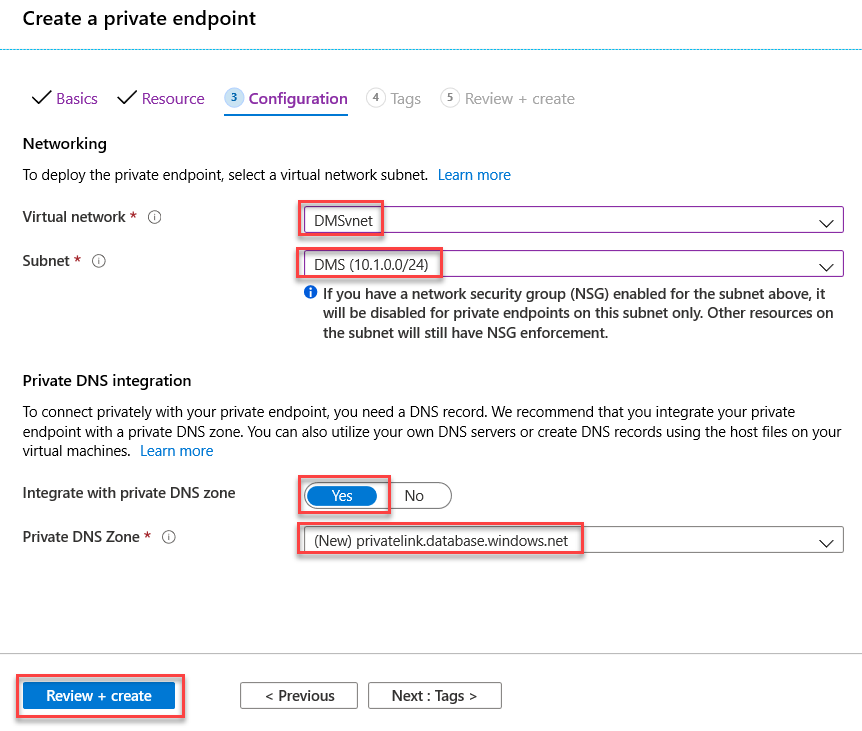
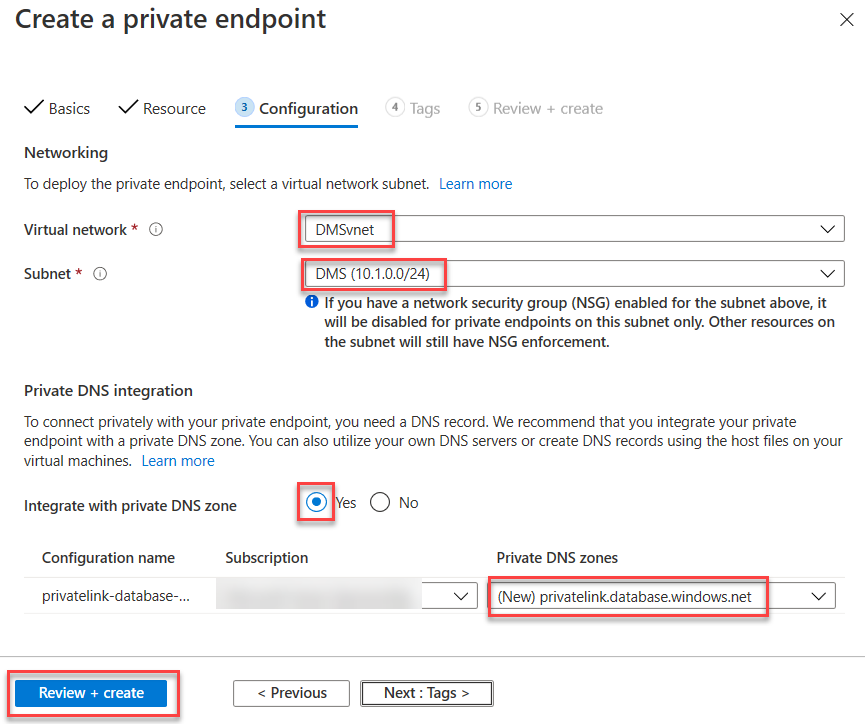
Updated LoB App Migration

diff --git a/Hands-on lab/HOL step-by step - Line-of-business application migration.md b/Hands-on lab/HOL step-by step - Line-of-business application migration.md
@@ -547,7 +547,7 @@ In this task you registered the **Microsoft.DataMigration** resource provider wi
 
 In this task you will create a new Azure SQL database to migrate the on-premises database to.
 
-1. Open the Azure portal at https://portal.azure.com and log in using your subscription credentials.
+1. Open the Azure portal at https://portal.azure.com and log in using your subscription credentials if it's not still up.
 
 2. Expand the portal's left navigation by selecting **Show portal menu** in the top left then select **+ Create a resource**, then select **Databases**, then select **SQL Database**.
 
@@ -557,7 +557,7 @@ In this task you will create a new Azure SQL database to migrate the on-premises
 
     - Subscription: **Select your subscription**.
   
-    - Resource group (create new): **SmartHotelDBRG**
+    - Resource group: (create new) **SmartHotelDBRG**
   
     - Database name: **smarthoteldb**
   
@@ -577,7 +577,7 @@ In this task you will create a new Azure SQL database to migrate the on-premises
   
     - Compute + storage: **Standard S0**
 
-    > **Note**: To select the 'Standard S0' database tier, select **Configure database**, then **Looking for basic, standard, premium?**, select **Standard** and select **Apply**.
+    > **Note**: To select the **Standard S0** database tier, select **Configure database**, then **Looking for basic, standard, premium?**, select **Standard** and select **Apply**.
 
     ![Screenshot from the Azure portal showing the Create SQL Database blade.](images/Exercise2/new-db.png)
 
@@ -601,11 +601,15 @@ In this task you will create an Azure Database Migration Service resource. This 
 >
 > In this lab, the 'on-premises' environment is simulated by a Hyper-V host running in an Azure VM. This VM is deployed to the 'smarthotelvnet' VNet. The DMS will be deployed to a separate VNet called 'DMSVnet'. To simulate the on-premises connection, these two VNet have been peered.
 
-1. Return to the browser tab you used in task 1 to register the Microsoft.DataMigration resource provider. Check that the registration has been completed before proceeding further.
+1. Return to the cloud shell browser tab you used in task 1 to register the Microsoft.DataMigration resource provider. Check that the registration has been completed by running the following command before proceeding further.
+
+    ```
+    Get-AzResourceProvider -ProviderNamespace Microsoft.DataMigration | Select-Object ProviderNamespace, RegistrationState, ResourceTypes
+    ```
 
       ![Screenshot showing the resource provider 'registered' status.](images/Exercise2/registered-rp.png)
 
-2. In the Azure portal, select **+ Create a resource**, search for **migration**, and then select **Azure Database Migration Service** from the drop-down list.
+2. In the Azure portal, expand the portal's left navigation and select **+ Create a resource**, search for **migration**, and then select **Azure Database Migration Service** from the drop-down list.
 
 3. On the **Azure Database Migration Service** blade, select **Create**.
 
@@ -613,7 +617,7 @@ In this task you will create an Azure Database Migration Service resource. This 
 
    > **Tip**: If the migration service blade will not load, refresh the portal blade in your browser.
 
-4. In the **Create Migration Service** blade, on the 'Basics' tab, enter the following values:
+4. In the **Create Migration Service** blade, on the **Basics** tab, enter the following values:
    
     - Subscription: **Select your Azure subscription**.
   
@@ -643,7 +647,7 @@ In this task you created a new Azure Database Migration Service resource.
 
 In this task you will install and use Microsoft SQL Server Data Migration Assistant (DMA) to assess the on-premises database. The DMA is integrated with Azure Migrate providing a single hub for assessment and migration tools.
 
-1. Return to the **Azure Migrate** blade in the Azure portal. Select the **Overview** panel, then select the **Assess and migrate databases** button.
+1. Return to the **Azure Migrate** blade in the Azure portal. Select the **Overview** panel, then select **Assess and migrate databases**.
 
     ![Screenshot showing the Azure Migrate Overview blade in the Azure portal, with the 'Assess and migrate databases' button highlighted.](images/Exercise2/assess-migrate-db.png)  
 
@@ -657,9 +661,9 @@ In this task you will install and use Microsoft SQL Server Data Migration Assist
 
     ![Screenshot showing the 'Select assessment tool' step of the 'Add a tool' wizard in Azure Migrate, with the 'Azure Migrate: Database Migration' tool selected.](images/Exercise2/add-db-migration-tool.png)
 
-5. Under 'Review and add tools', select **Add tool(s)**.
+5. Under **Review and add tools**, select **Add tool(s)**.
 
-6. Once the tools are installed in Azure Migrate, the portal should show the 'Azure Migrate - Databases' blade. Under 'Azure Migrate: Database Assessment' select **+ Assess**.
+6. Once the tools are installed in Azure Migrate, the portal should show the **Azure Migrate - Databases** blade. Under **Azure Migrate: Database Assessment** select **+ Assess**.
 
     ![Screenshot highlighting the '+Assess' link on the 'Azure Migrate - Databases' blade in the Azure portal.](images/Exercise2/db-assess.png)
 
@@ -667,11 +671,11 @@ In this task you will install and use Microsoft SQL Server Data Migration Assist
 
 8. Return to your remote desktop session with the **SmartHotelHost** VM. Open **Chrome** from the desktop and paste the Data Migration Assistant download URL into the address bar. Download and install the Data Migration Assistant.
 
-9.  From within **SmartHotelHost**, open **Windows Explorer** and navigate to the **C:\Program Files\Microsoft Data Migration Assistant** folder. Open the **Dma.exe.config** file using Notepad. Search for **AzureMigrate** and remove the **\<\!--** and **--\>** around the line setting the **EnableAssessmentUploadToAzureMigrate** key. **Save** the file and close Notepad when done.
+9.  From within **SmartHotelHost**, open **Windows Explorer** and navigate to the **C:\\Program Files\\Microsoft Data Migration Assistant** folder. Open the **Dma.exe.config** file using Notepad. Search for **AzureMigrate** and remove the **\<\!--** and **--\>** around the line setting the **EnableAssessmentUploadToAzureMigrate** key. **Save** the file and close Notepad when done.
 
   ![Screenshot showing the Dma.exe.config setting enabling upload to Azure Migrate.](images/Exercise2/dma-enable-upload.png)
 
-10.  From within **SmartHotelHost** launch **Microsoft Data Migration Assistant** using the desktop icon. 
+10. From within **SmartHotelHost** launch **Microsoft Data Migration Assistant** using the desktop icon. 
 
 11. In the Data Migration Assistant, select the **+ New** icon.  Fill in the project details as follows:
 
@@ -691,7 +695,7 @@ In this task you will install and use Microsoft SQL Server Data Migration Assist
 
 13. On the **Options** tab select **Next**.
 
-14. On the **Select sources** screen, in the **Connect to a server** dialog box, provide the connection details to the SQL Server, and then select **Connect**.
+14. On the **Select sources** page, in the **Connect to a server** dialog box, provide the connection details to the SQL Server, and then select **Connect**.
 
     - Server name: **192.168.0.6**
   
@@ -727,11 +731,9 @@ In this task you will install and use Microsoft SQL Server Data Migration Assist
 
     ![Screenshot of the DMA showing the assessment results and the 'Update to Azure Migrate' button.](images/Exercise2/db-upload-btn.png)
 
-19. Enter your subscription credentials when prompted. Select your **Subscription** and **Azure Migrate Project** using the dropdowns, then select **Upload**. Once the upload is complete, select **OK** to dismiss the notification.
+19. Select **Azure** from the dropdown on the right then select **Connect**. Enter your subscription credentials when prompted. Select your **Subscription** and **Azure Migrate Project** using the dropdowns, then select **Upload**. Once the upload is complete, select **OK** to dismiss the notification.
 
     ![Screenshot of the DMA showing the assessment results upload panel.](images/Exercise2/db-upload.png)
-
-    Once the upload is complete, select **OK** to dismiss the notification.
 
 20. Minimize the remote desktop window and return to the **Azure Migrate - Databases** blade in the Azure portal. Refreshing the page should now show the assessed database.
 
@@ -757,17 +759,17 @@ We'll start by creating the private endpoint that allows the DMS to access the d
 
 3. Select **Private endpoint connections** under **Security**, then **+ Private endpoint**.
 
-4. On the **Basics** tab enter the following configuration then select **Next: Resource**. 
+4. On the **Basics** tab that appears, enter the following configuration then select **Next: Resource**. 
 
     - Resource group: **SmartHotelDBRG**
   
     - Name: **SmartHotel-DB-for-DMS**
   
-    - Region: **Select the same location as the DMSvnet**.
+    - Region: **Select the same location as the DMSvnet (Should be the region closest to you)**.
   
     ![Screenshot showing the 'Create a private endpoint' blade, 'Basics' tab.](images/Exercise2/private-endpoint-1.png)
 
-5. On the 'Resource' tab, entering the following configuration then select **Next: Configuration**. 
+5. On the **Resource** tab, entering the following configuration then select **Next: Configuration**. 
 
     - Connection method: **Connect to an Azure resource in my directory**.
   
@@ -789,7 +791,7 @@ We'll start by creating the private endpoint that allows the DMS to access the d
   
     - Integrate with private DNS zone: **Yes**
   
-    - Private DNS zone: (default) **privatelink.database.windows.net**
+    - Private DNS zones: (default) **privatelink.database.windows.net**
 
     ![Screenshot showing the 'Create a private endpoint' blade, 'Configuration' tab.](images/Exercise2/private-endpoint-3.png)
 
@@ -807,7 +809,7 @@ We'll start by creating the private endpoint that allows the DMS to access the d
 
     ![Screenshot showing the Database Migration Service blade in the Azure portal, with the 'New Migration Project' button highlighted.](images/Exercise2/new-dms-project.png)
 
-10. In the 'New migration project' blade, enter **DBMigrate** as the project name. Leave the source server type as **SQL Server** and target server type as **Azure SQL Database**. Select **Choose type of activity** and select **Create project only**. Select **Save** then select **Create**.
+10. In the **New migration project** blade, enter **DBMigrate** as the project name. Leave the source server type as **SQL Server** and target server type as **Azure SQL Database**. Select **Choose type of activity** and select **Create project only**. Select **Save** then select **Create**.
 
     ![Screenshot showing the Database Migration Service blade in the Azure portal, with the 'New Migration Project' button highlighted.](images/Exercise2/new-migrate-project.png)
 
@@ -835,7 +837,7 @@ We'll start by creating the private endpoint that allows the DMS to access the d
 
     ![Screenshot showing the 'Select databases' step of the DMS Migration Wizard.](images/Exercise2/select-databases.png)
 
-13. Complete the 'Select target' step as follows, then select **Save**:
+13. Complete the **Select target** step as follows, then select **Save**:
 
     - Target server name: **Value from your database, {something}.database.windows.net**.
   
@@ -879,11 +881,11 @@ The schema migration will be carried out using a schema migration activity withi
 
     ![Screenshot showing the 'Select target' step of the DMS Migration Wizard. The target database password is highlighted.](images/Exercise2/select-target-pwd-only.png)
 
-4. At the **Select database and schema** step, check the **SmartHotel.Registration** database is selected. Under **Target Database** select **smarthoteldb** and under 'Schema Source' select **Generate from source**. Select **Save**.
+4. At the **Select database and schema** step, check that the **SmartHotel.Registration** database is selected. Under **Target Database** select **smarthoteldb** and under **Schema Source** select **Generate from source**. Select **Save**.
 
     ![Screenshot showing the 'Select database and schema' step of the DMS Migration Wizard.](images/Exercise2/select-database-and-schema.png)
 
-5. At the **Summary** step, enter **SchemaMigration** as the **Activity name** and choose any database validation option. Select **Run migration** to start the schema migration process.
+5. At the **Summary** step, enter **SchemaMigration** as the **Activity name**.Select **Run migration** to start the schema migration process.
 
     ![Screenshot showing the 'Summary' step of the DMS Migration Wizard. The activity name, validation option, and 'Run migration' button are highlighted](images/Exercise2/run-schema-migration.png)
 
